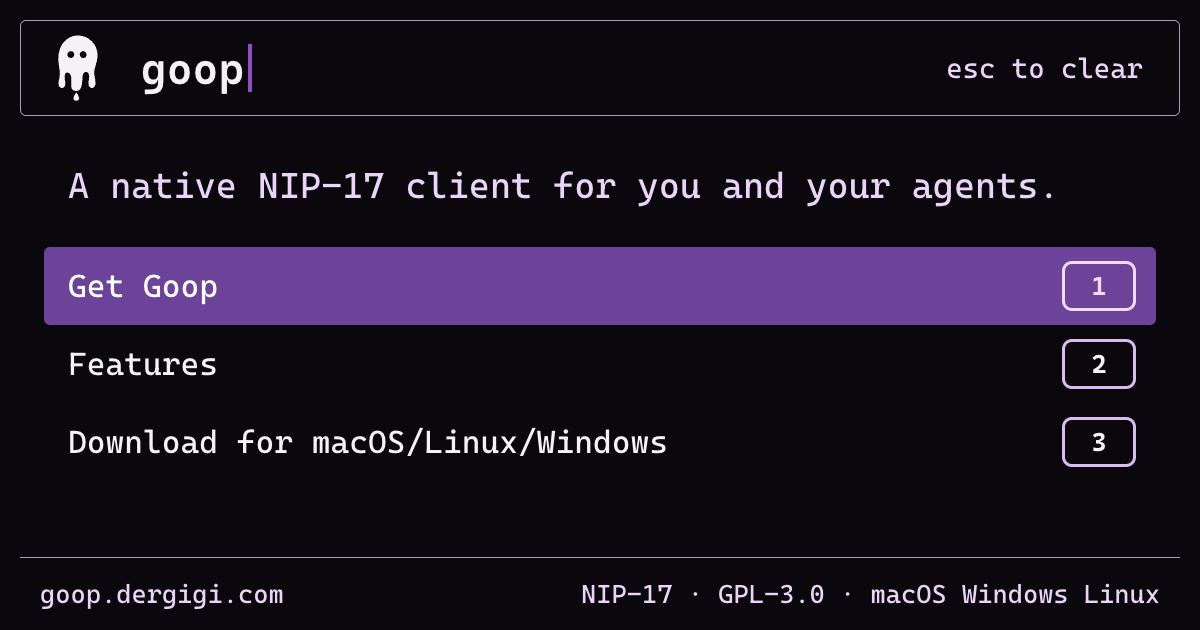
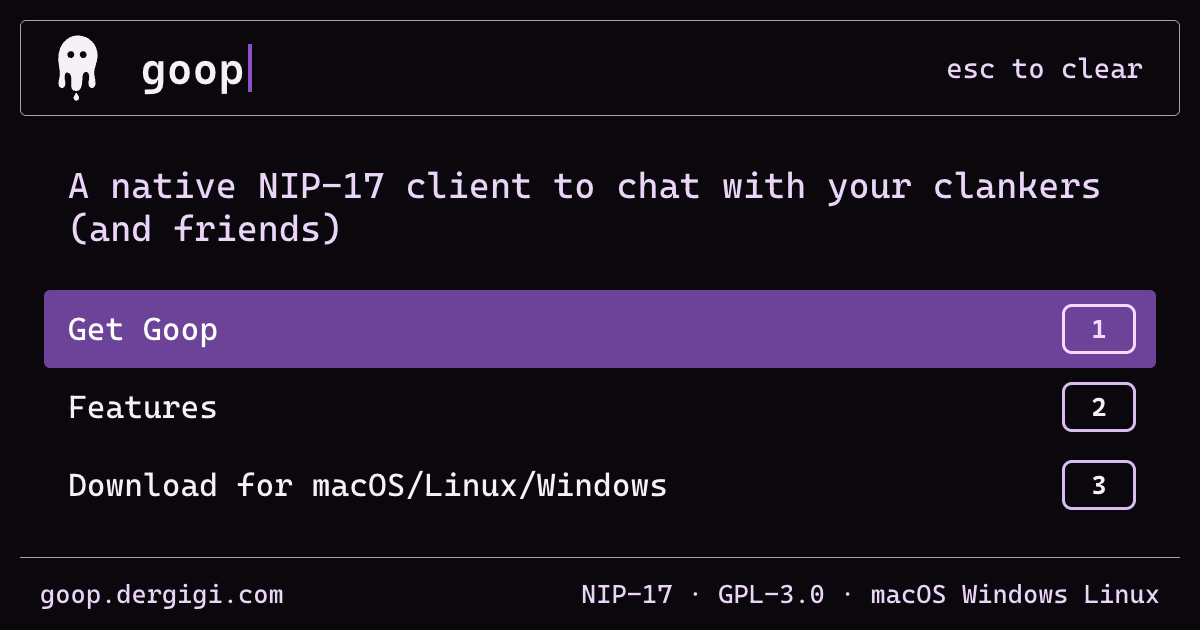
Update tagline and social preview for clankers and friends

diff --git a/PRODUCT.md b/PRODUCT.md
@@ -22,7 +22,7 @@ Goop is a desktop client for NIP-17 private messaging on Nostr. It exists so tha
 
 ## Positioning
 
-"A native NIP-17 client for you and your agents." Goop is Gigi's fork of Coop, built in Rust on GPUI (the same UI framework as the Zed editor). Every action has a keyboard shortcut and shortcuts are discoverable in the app. Messaging goes through NIP-17 gift wraps only; NIP-04 is not supported. Identity login requires an external signer, so Goop never holds a plain secret key.
+"A native NIP-17 client to chat with your clankers (and friends)" Goop is Gigi's fork of Coop, built in Rust on GPUI (the same UI framework as the Zed editor). Every action has a keyboard shortcut and shortcuts are discoverable in the app. Messaging goes through NIP-17 gift wraps only; NIP-04 is not supported. Identity login requires an external signer, so Goop never holds a plain secret key.
 
 ## Operating Context
 
@@ -60,7 +60,7 @@ Terminology: NIP-17, gift wrap, npub, relay, signer, bunker, Blossom, Inbox, Req
 
 - Name: Goop. Lowercase in URLs, capitalized in prose.
 - Mark: a dripping purple ghost blob (`assets/brand/goop.svg` in the goop repo; app icon is the white mark on purple `#8E4EC6`, rounded square). Light variant uses `#8145B5` on `#EAD5F9`.
-- Tagline: "A native NIP-17 client for you and your agents."
+- Tagline: "A native NIP-17 client to chat with your clankers (and friends)"
 - Voice: plain, direct, technical when needed, no hype. The README and changelog state limitations openly; the landing page keeps that honesty.
 - Licensed GPL-3.0. Free software, no pricing, no accounts.
 - Docs point to WhiteNoise as the alternative when NIP-17 is not enough. Keep that generosity.

diff --git a/README.md b/README.md
@@ -1,6 +1,6 @@
 # goop-landing
 
-Landing page for [Goop](https://github.com/dergigi/goop), a native NIP-17 client for you and your agents. Lives at [goop.dergigi.com](https://goop.dergigi.com).
+Landing page for [Goop](https://github.com/dergigi/goop), a native NIP-17 client to chat with your clankers (and friends). Lives at [goop.dergigi.com](https://goop.dergigi.com).
 
 The page is a command palette: arrow keys, digits, `?` and `Esc` drive the list, typing filters it. Built with Astro, static output, no framework runtime.
 
